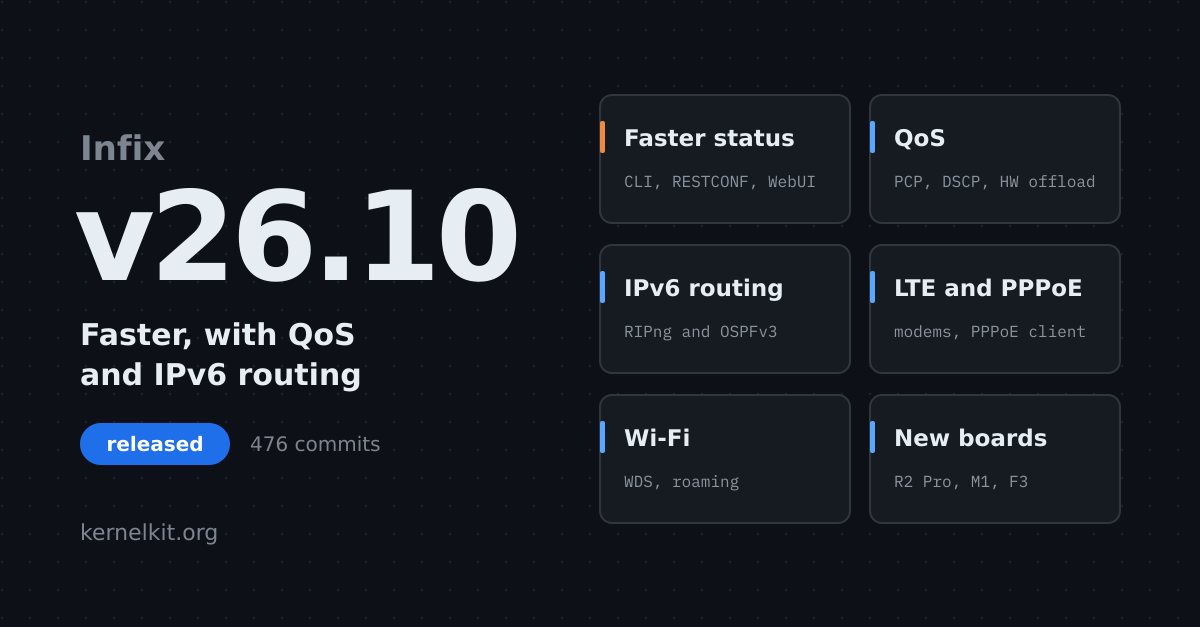
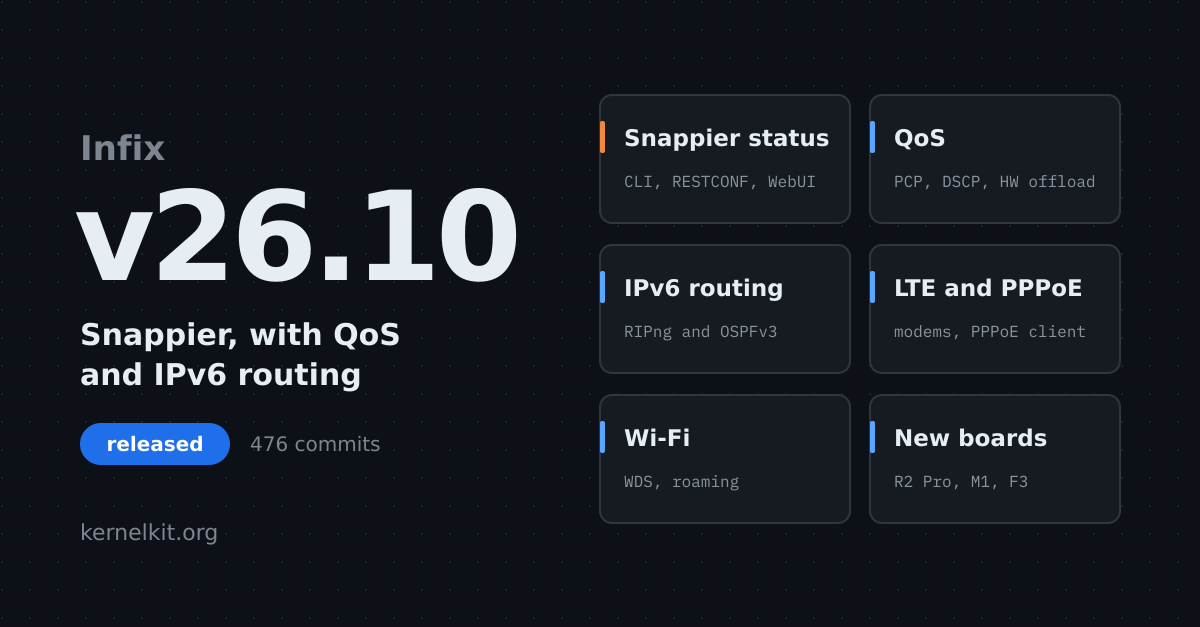
Make the v26.10 release post snappier
"Faster" undersold how the status reads feel; call them snappier in the
post and the social image, and loosen the tone of a few sentences to
match.  Split the long Wi-Fi sentence in two.

Changed region(s): [[0.0617, 0.5152, 0.3392, 0.5758], [0.5242, 0.2121, 0.7092, 0.2424]]

diff --git a/_posts/2026-10-30-infix-v26-10.md b/_posts/2026-10-30-infix-v26-10.md
@@ -1,28 +1,28 @@
 ---
-title: Infix v26.10 is Out
+title: "Infix v26.10: Snappier, with QoS and IPv6 Routing"
 author: troglobit
 date: 2026-10-30 18:00:00 +0100
 categories: [showcase]
 tags: [release, qos, routing, wifi, modem, boards]
 image:
   path: /assets/img/infix-v26-10-social.png
-  alt: Infix v26.10 release highlights, faster status, QoS, IPv6 routing, LTE and three new boards
+  alt: Infix v26.10 release highlights, snappier status, QoS, IPv6 routing, LTE and three new boards
 ---
 
 Infix v26.10 is out, with 476 commits in 62 pull requests since v26.09 a
 month ago.  Thank you to everyone who sent code, tested release
 candidates, and reported bugs.
 
-### Faster status
+### Snappier status
 
-The big news in this release is speed.  The system now keeps interface,
+The big news this time is how snappy it feels.  The system now keeps interface,
 routing, bridge, Wi-Fi, container and hardware status up to date as
 things change, instead of collecting it every time someone asks.
 `show interface`, NETCONF and RESTCONF reads, and the WebUI status pages
-answer right away.  You notice it most on switches with many ports.
+answer right away.  Big switches with lots of ports feel it the most.
 
-The WebUI makes good use of it.  Status pages refresh on their own, and
-the Overview page has new Ports and Health cards that show link state
+The WebUI cashes in on it: status pages refresh on their own, and the
+Overview page has new Ports and Health cards that show link state
 and LLDP neighbors per port, and anything that needs your attention.
 
 ### Quality of Service
@@ -30,7 +30,7 @@ and LLDP neighbors per port, and anything that needs your attention.
 Every port now has a QoS configuration: trust PCP or DSCP, map them to
 priorities, sort traffic into strict or weighted classes, remark on the
 way out, and cap the egress rate.  Ports start with IEEE 802.1Q
-defaults, so you only configure what you want to change.  On Marvell
+defaults, so you only touch what you want to change.  On Marvell
 LinkStreet switches it all runs in hardware, so it applies to switched
 traffic too.  The [QoS guide][qos] has the details.
 
@@ -50,10 +50,12 @@ details.
 
 Cellular modems are in: LTE dongles, mPCIe cards and M.2 modules, see
 [LTE Modems in Infix][lte].  So is a PPPoE client, for providers that
-still require one.  On Wi-Fi, a station and an access point can form a
-WDS link for wireless bridges and repeaters, stations roam on their own,
-and clients are handed over to a neighbor before their access point goes
-down for a reboot or an upgrade.
+still require one.
+
+On Wi-Fi, a station and an access point can now team up as a WDS link
+for bridges and repeaters.  Stations roam on their own, and an access
+point hands its clients to a neighbor before it goes down for a reboot
+or an upgrade.
 
 ### New boards
 
